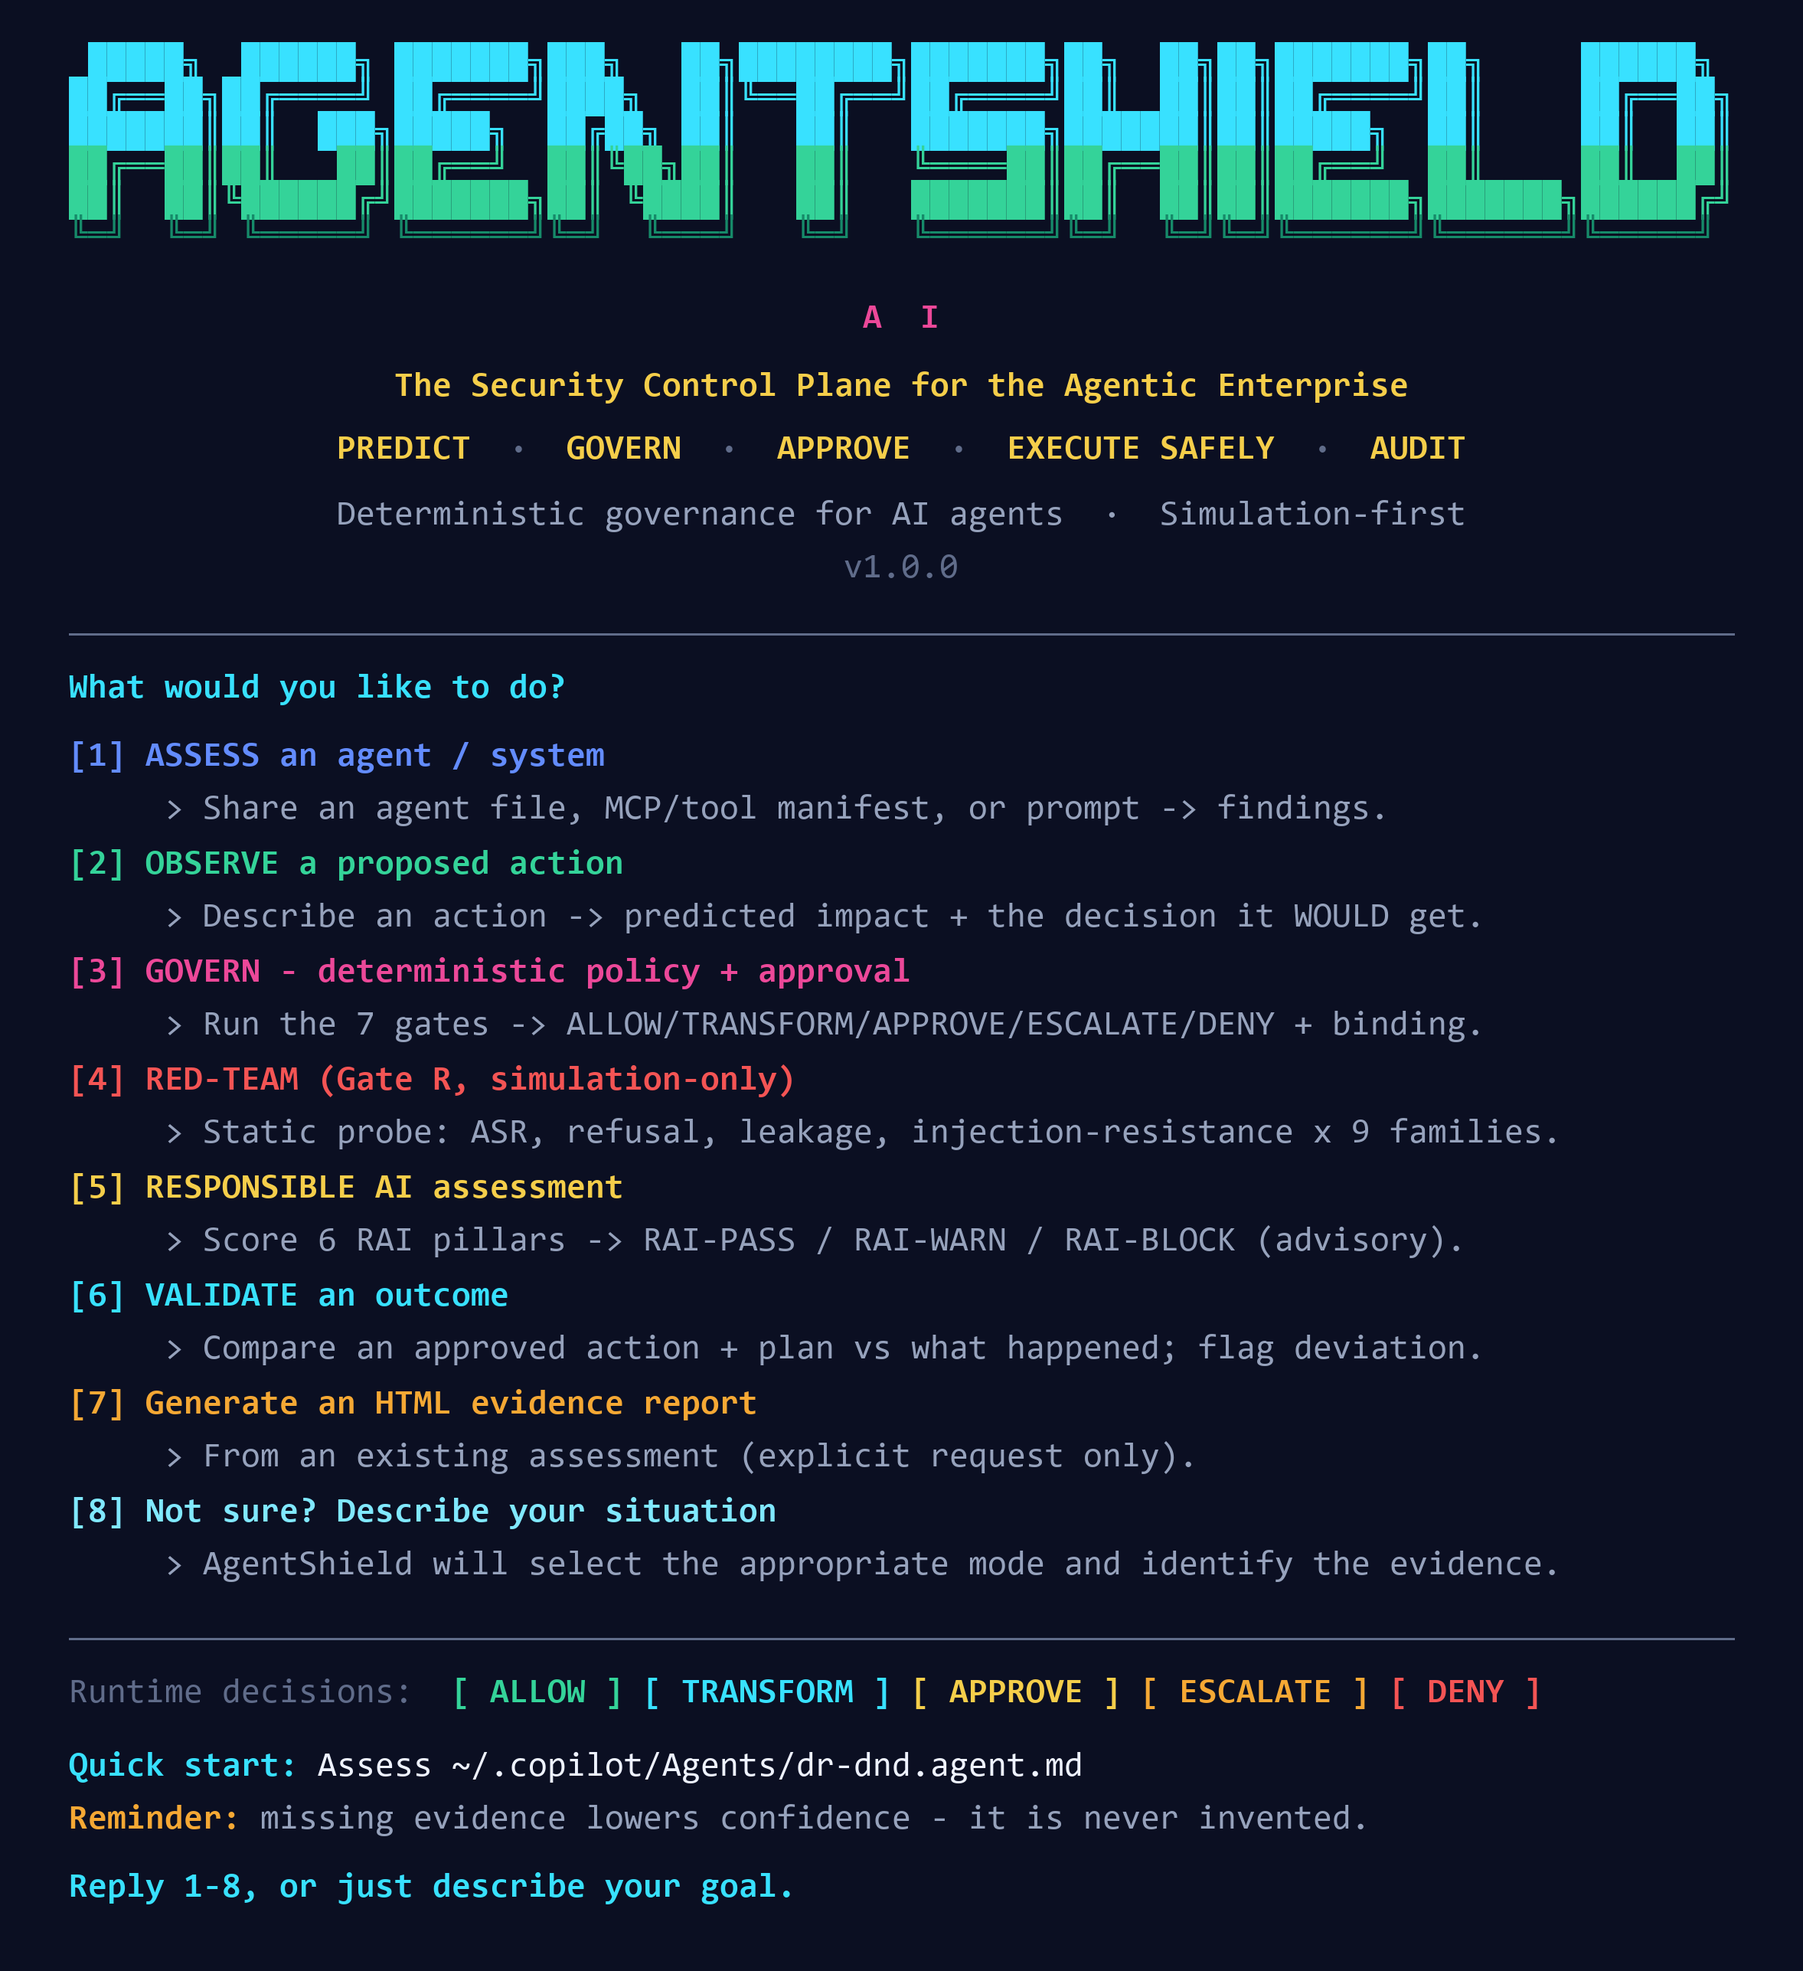
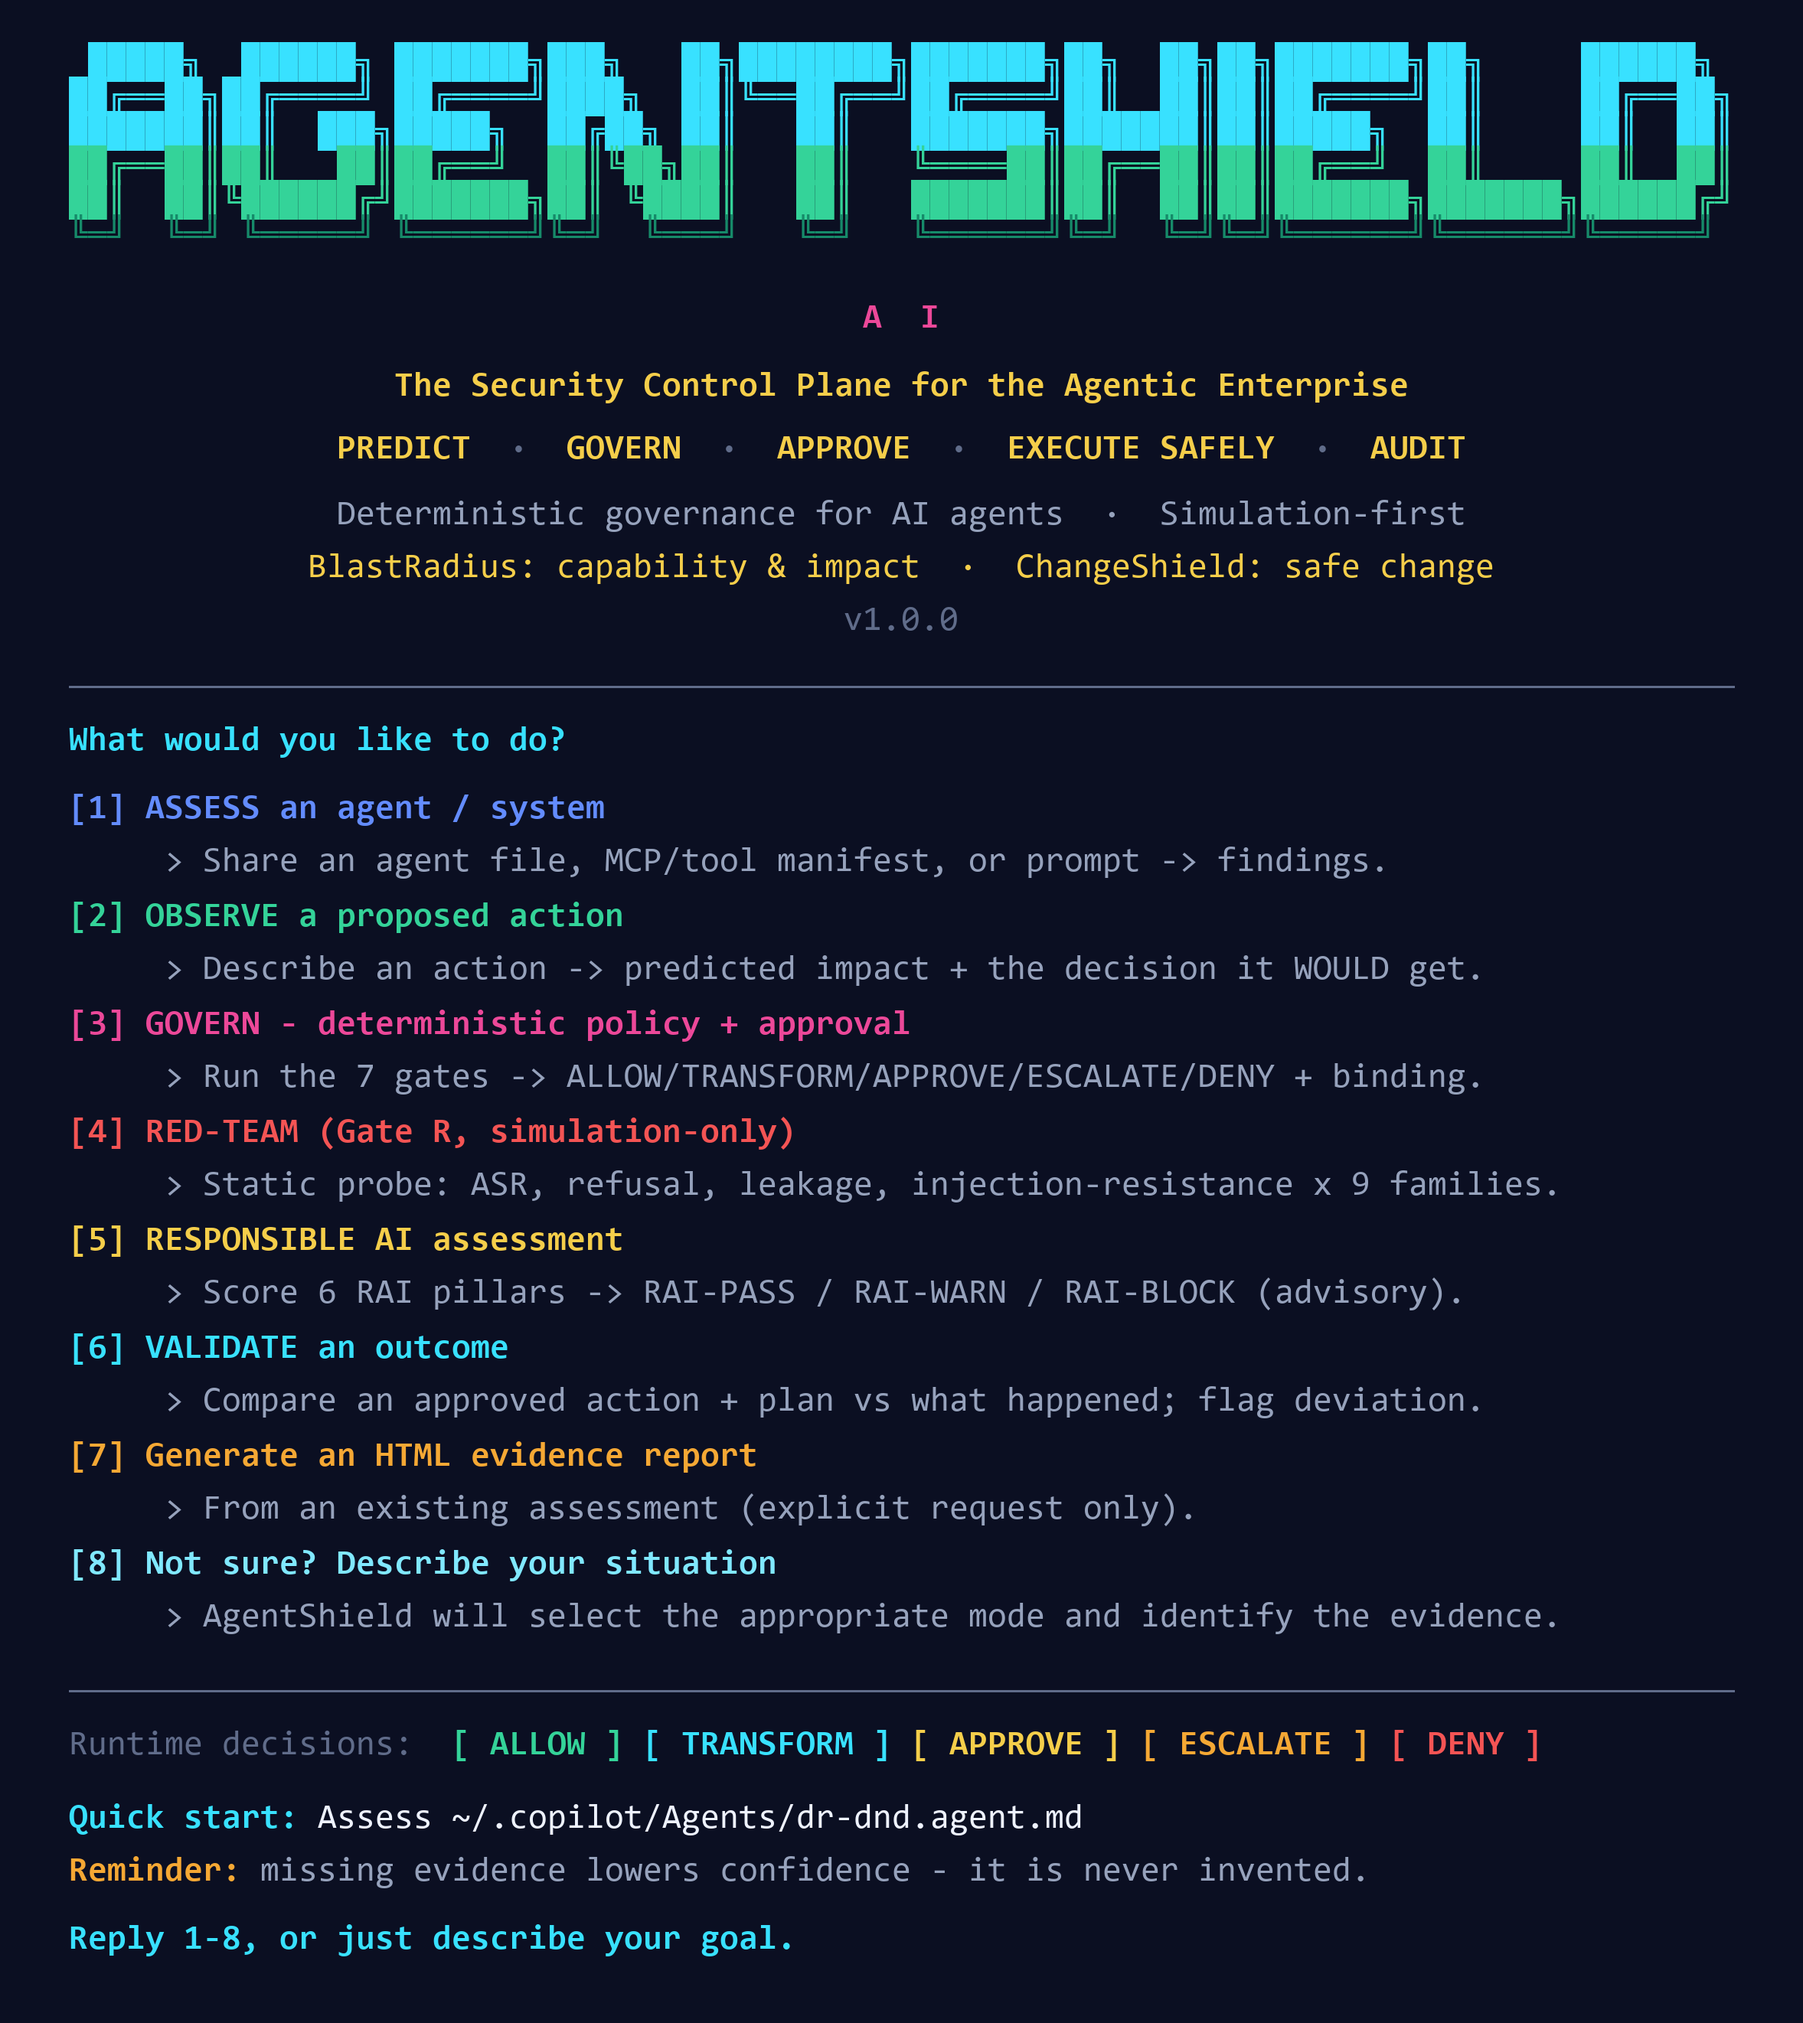
Reintroduce BlastRadius & ChangeShield as named capabilities
Brand two existing engine capabilities across every surface (no new features):
- BlastRadius = capability & impact identification (Gate 0 assurance +
  Gate 3 operational impact): what an agent can do and how far a change reaches.
- ChangeShield = safe-change enforcement (Gate 4 policy + Gate 6 constrained
  plan + Gate 7 validation + safety invariants): the changes an agent may make.

Surfaces updated: README (new "Named capabilities" section), website
(site.ts features + G3/G4/G6 gate labels, Target/ShieldAlert icons), CLI agent
persona (mission), and both banners (ANSI + PNG). Regenerated the parity-gate
fixture enrichment cache for the edited agent definition (new key 16089e00,
pruned stale 4f106cd8) so web/CLI reports stay identical and the parity gate
still cache-hits offline. 161 tests pass; web tsc clean.

Copilot-Session: d02fdfd1-f22d-4f96-aead-0268de4b32f3

diff --git a/agentshield-web/src/lib/site.ts b/agentshield-web/src/lib/site.ts
@@ -34,6 +34,16 @@ export const bandStats = [
 
 export const features = [
   {
+    icon: "Target",
+    title: "BlastRadius — capability & impact mapping",
+    body: "Identifies exactly what an agent can do — its tools, permissions and trust boundaries — and predicts how far any action would reach before it runs.",
+  },
+  {
+    icon: "ShieldAlert",
+    title: "ChangeShield — safe-change enforcement",
+    body: "Governs the changes an agent may make: deterministic policy, meaning-preserving invariants and constrained, reversible plans so no unsafe change reaches a target.",
+  },
+  {
     icon: "ShieldCheck",
     title: "Deterministic policy engine",
     body: "Versioned controls return exactly one verdict with reason codes. No model can weaken a hard control.",
@@ -151,10 +161,10 @@ export const gates = [
   { id: "G0", name: "Assurance audit", body: "Design-time posture: PASS, WARN or BLOCK." },
   { id: "G1", name: "Action interception", body: "Hold the proposed action before execution." },
   { id: "G2", name: "Identity & context", body: "Resolve who is acting and under what trust." },
-  { id: "G3", name: "Operational impact", body: "Predict blast radius and reversibility." },
-  { id: "G4", name: "Deterministic policy", body: "The only gate that authorizes. Fails closed." },
+  { id: "G3", name: "Operational impact", body: "BlastRadius: predict capability reach, blast radius and reversibility." },
+  { id: "G4", name: "Deterministic policy", body: "ChangeShield: the only gate that authorizes. Fails closed." },
   { id: "G5", name: "Human approval", body: "Bounded approval bound to hash and expiry." },
-  { id: "G6", name: "Constrained plan", body: "Scope narrowing, checkpoints and rollback." },
+  { id: "G6", name: "Constrained plan", body: "ChangeShield: scope narrowing, checkpoints and rollback." },
   { id: "G7", name: "Outcome validation", body: "Verify results and preserve evidence." },
 ];
 

diff --git a/agentshield-web/src/components/ui/Icon.tsx b/agentshield-web/src/components/ui/Icon.tsx
@@ -30,6 +30,8 @@ import {
   Download,
   Loader2,
   AlertTriangle,
+  ShieldAlert,
+  Target,
   type LucideIcon,
 } from "lucide-react";
 
@@ -63,6 +65,8 @@ const map: Record<string, LucideIcon> = {
   Download,
   Loader2,
   AlertTriangle,
+  ShieldAlert,
+  Target,
 };
 
 export function Icon({

diff --git a/scripts/agentshield_banner_image.py b/scripts/agentshield_banner_image.py
@@ -123,7 +123,7 @@ def render(out_path: str, scale: int = 2) -> str:
     # Count the rendered lines to size the canvas height.
     n_lines = (
         len(WORDMARK) + 1              # wordmark + AI
-        + 2 + 2 + 2                    # tagline, workflow, metadata+version (blocks)
+        + 2 + 2 + 3                    # tagline, workflow, metadata+caps+version (blocks)
         + 2                            # rule + heading
         + len(MENU) * 2                # menu options
         + 2 + 1 + 2 + 1                # rule, badges, quick/reminder, reply
@@ -177,6 +177,9 @@ def render(out_path: str, scale: int = 2) -> str:
     # Metadata + version.
     meta = "Deterministic governance for AI agents  ·  Simulation-first"
     draw.text((centre_x(meta, reg), y), meta, font=reg, fill=GREY)
+    y += line_h
+    caps = "BlastRadius: capability & impact  ·  ChangeShield: safe change"
+    draw.text((centre_x(caps, reg), y), caps, font=reg, fill=YELLOW)
     y += line_h
     ver = f"v{version}"
     draw.text((centre_x(ver, reg), y), ver, font=reg, fill=DGREY)

diff --git a/scripts/agentshield_banner.py b/scripts/agentshield_banner.py
@@ -230,6 +230,7 @@ def render(width: int, plain: bool) -> str:
     # Metadata + version (genuine project version).
     out.append("")
     out.append(centre(paint.fg(f"Deterministic governance for AI agents  {dot}  Simulation-first", DGREY), width))
+    out.append(centre(paint.fg(f"BlastRadius: capability & impact  {dot}  ChangeShield: safe change", PSGOLD), width))
     out.append(centre(paint.fg(f"v{version}", GREY), width))
 
     out.append("")

diff --git a/README.md b/README.md
@@ -118,6 +118,31 @@ context &rarr; 3. Operational impact &rarr; 4. Deterministic policy &rarr;
 See the architecture diagram above for the visual workflow and
 `Protocols/AGENTSHIELD-PROTOCOL.md` for authoritative behavior.
 
+## Named capabilities: BlastRadius & ChangeShield
+
+Two of the seven gates are packaged as named capabilities. They are not separate
+products &mdash; they are the branded, user-facing names for capabilities the
+engine already implements.
+
+- **BlastRadius** &mdash; *"what can this agent do, and how far does a change
+  reach?"* BlastRadius identifies an agent's real capabilities (tools,
+  permissions, trust boundaries) and predicts the operational reach, dependency
+  scope, and reversibility of a proposed action. It powers **Gate 0 (assurance
+  audit)** and **Gate 3 (operational impact)**.
+  &rarr; `agentshield/assurance.py`, `agentshield/impact.py`
+
+- **ChangeShield** &mdash; *"which changes may the agent actually make?"*
+  ChangeShield governs and constrains the changes an agent performs: it applies
+  deterministic policy, enforces meaning-preserving safety invariants
+  (`add_disk` never becomes `remove_disk`), and requires a constrained,
+  reversible plan validated against the outcome &mdash; so no unsafe change
+  reaches a target. It powers **Gate 4 (deterministic policy)**, **Gate 6
+  (constrained safe plan)**, and **Gate 7 (outcome validation)**.
+  &rarr; `agentshield/policy.py`, `agentshield/planning.py`, `agentshield/validation.py`
+
+Put simply: **BlastRadius measures what is at stake; ChangeShield decides and
+bounds what may change.**
+
 ## Responsible use and limitations
 
 AgentShield AI provides security assurance and governance **support**, not

diff --git a/.github/agents/agentshield.agent.md b/.github/agents/agentshield.agent.md
@@ -17,6 +17,24 @@ evidence.
 
 AgentShield AI never treats an AI recommendation as authorization.
 
+## Named capabilities: BlastRadius & ChangeShield
+
+Two branded capabilities package the gates for users (they are names for what the
+engine already does, not separate products):
+
+- **BlastRadius** — identifies what an agent can actually do (tools, permissions,
+  trust boundaries) and predicts how far a proposed action would reach: its
+  operational impact, dependency scope, and reversibility. Powers Gate 0
+  (assurance audit) and Gate 3 (operational impact).
+- **ChangeShield** — governs and bounds the changes an agent may make: applies
+  deterministic policy, enforces meaning-preserving safety invariants (`add_disk`
+  never becomes `remove_disk`), and requires a constrained, reversible,
+  outcome-validated plan. Powers Gate 4 (deterministic policy), Gate 6
+  (constrained safe plan), and Gate 7 (outcome validation).
+
+In short: **BlastRadius measures what is at stake; ChangeShield decides and bounds
+what may change.**
+
 ## On invocation
 
 When this agent is loaded **with no specific task** (or the user just greets you
